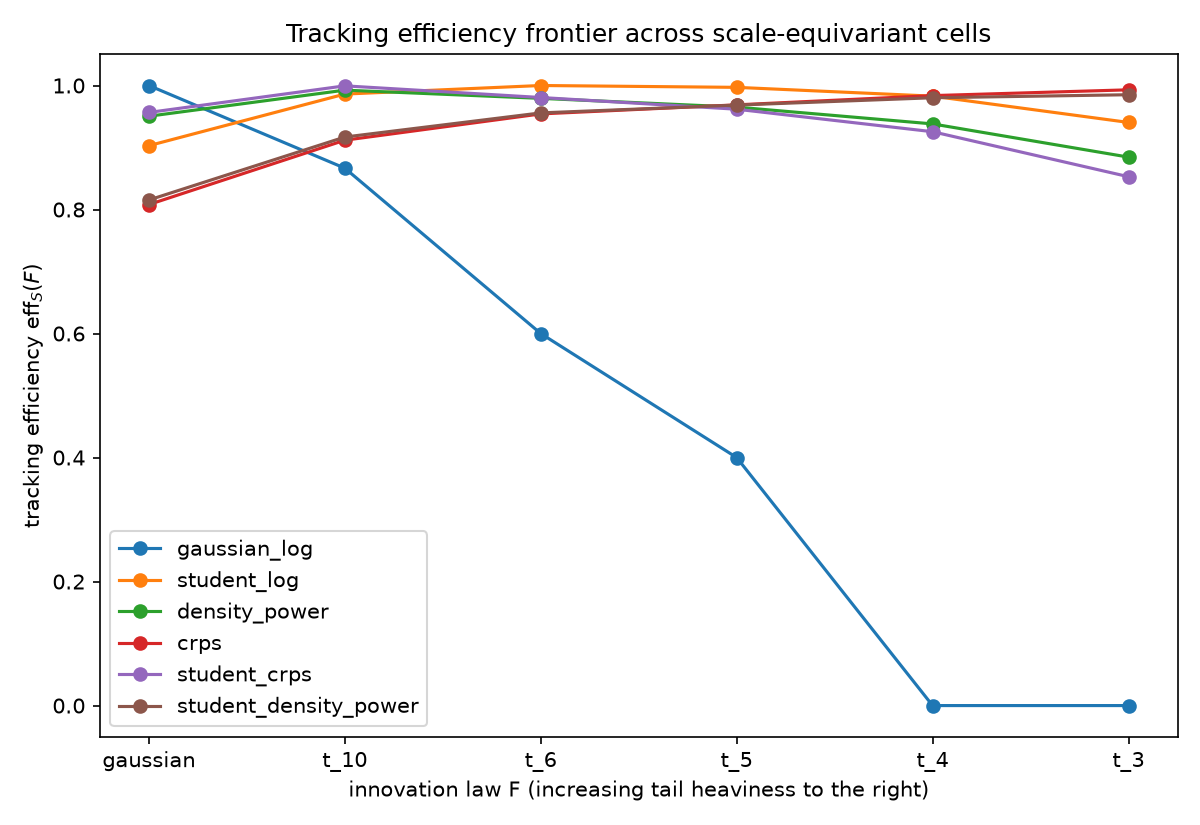
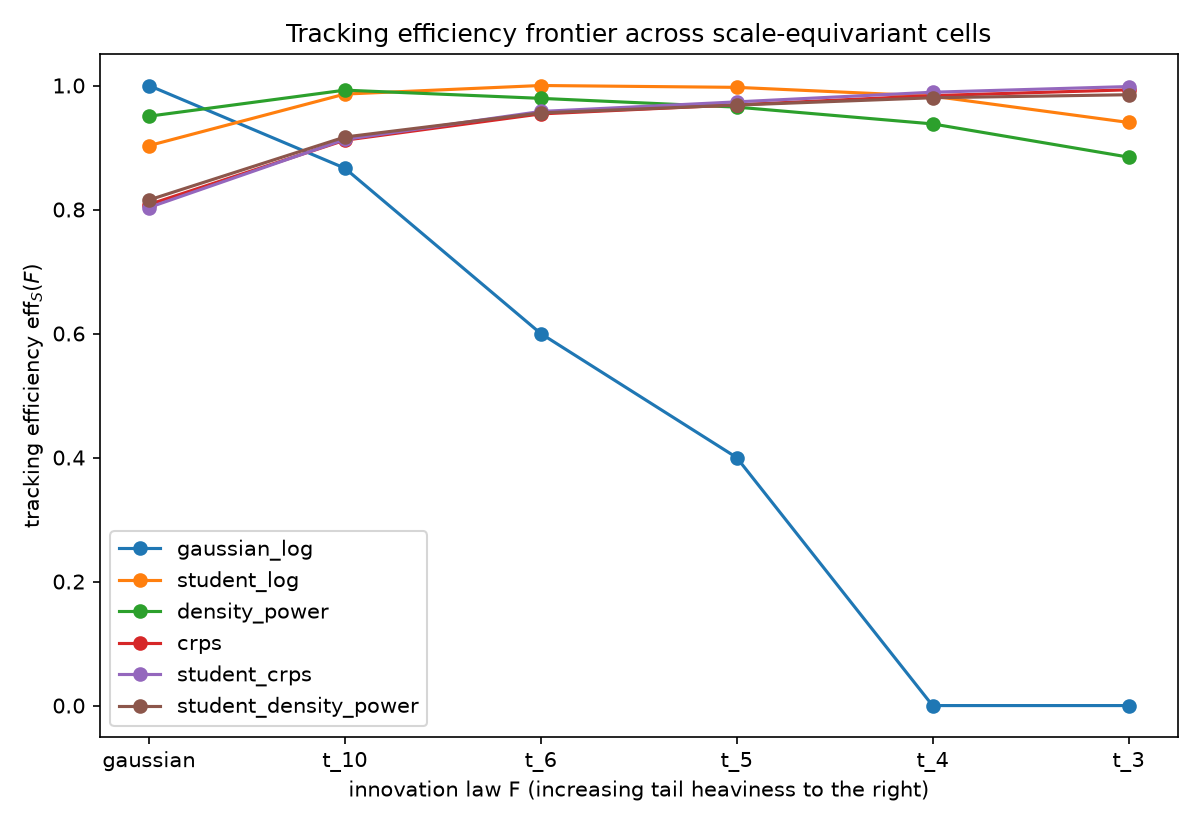
Fix Student-t CRPS score to use scale parameter consistently with variance
The Student-t CRPS closed form (Eq. G.1) takes the distribution's scale
parameter, not its variance, as input. src/scoring_rules.py and
src/empirical.py previously passed the working variance directly where the
scale was expected, which degraded the Student-t6 CRPS cell specifically
(exp4 target shift, exp6 factorial fit). exp4's Student-t6 CRPS target shift
under t_3 innovations now matches the paper's reported -0.457 to three
decimals (Table 3).

diff --git a/src/scoring_rules.py b/src/scoring_rules.py
@@ -223,8 +223,11 @@ def curvature_normalised_driver(rule: str, z: np.ndarray) -> np.ndarray:
 _CRPS_T_CONST_CACHE: dict = {}
 
 
-def crps_student_t(v: np.ndarray, y: np.ndarray, nu: float = NU_STUDENT) -> np.ndarray:
-    """CRPS_{t_nu}(v, y) per Eq. (G.1); v is the predictive variance.
+def crps_student_t(scale2: np.ndarray, y: np.ndarray, nu: float = NU_STUDENT) -> np.ndarray:
+    """CRPS_{t_nu}(scale2, y) per Eq. (G.1), the Gneiting-Raible / Jordan et al.
+    (2019) closed form, as implemented in the ``scoringRules`` R package's
+    ``crps_t``. ``scale2`` is the squared *scale* parameter of the Student-t_nu
+    working density (not its variance: Var = scale2 * nu/(nu-2) for nu > 2).
 
     Uses ``scipy.special.stdtr`` (a direct ufunc) and a cached normalising
     constant instead of the ``scipy.stats.t`` object interface, because this
@@ -232,13 +235,13 @@ def crps_student_t(v: np.ndarray, y: np.ndarray, nu: float = NU_STUDENT) -> np.n
     from scipy.special import beta as beta_fn, stdtr
 
     if nu not in _CRPS_T_CONST_CACHE:
-        d_nu = nu - 2
-        c_nu = (2 * np.sqrt(nu - 2) / (nu - 1)) * beta_fn(0.5, nu - 0.5) / beta_fn(0.5, nu / 2) ** 2
+        c_nu = (2 * np.sqrt(nu) / (nu - 1)) * beta_fn(0.5, nu - 0.5) / beta_fn(0.5, nu / 2) ** 2
         pdf_const = float(gamma((nu + 1) / 2) / (np.sqrt(nu * np.pi) * gamma(nu / 2)))
-        _CRPS_T_CONST_CACHE[nu] = (d_nu, c_nu, pdf_const)
-    d_nu, c_nu, pdf_const = _CRPS_T_CONST_CACHE[nu]
+        _CRPS_T_CONST_CACHE[nu] = (c_nu, pdf_const)
+    c_nu, pdf_const = _CRPS_T_CONST_CACHE[nu]
 
-    z = y / np.sqrt(v)
+    scale = np.sqrt(scale2)
+    z = y / scale
     f_nu = pdf_const * (1.0 + z * z / nu) ** (-(nu + 1) / 2)
     F_nu = stdtr(nu, z)
-    return np.sqrt(v) * (z * (2 * F_nu - 1) + 2 * f_nu * (d_nu + z ** 2) / (nu - 1) - c_nu)
+    return scale * (z * (2 * F_nu - 1) + 2 * f_nu * (nu + z ** 2) / (nu - 1) - c_nu)

diff --git a/src/tracking_efficiency.py b/src/tracking_efficiency.py
@@ -69,9 +69,10 @@ def _psi_scale_equivariant(rule: str, eps: np.ndarray, delta: float, beta: float
     if rule == "student_crps":
         from src.scoring_rules import crps_student_t
         v = np.exp(delta)
+        scale2 = v * (nu_work - 2) / nu_work
         h = 1e-5
-        s_plus = crps_student_t(v * np.exp(h), eps, nu=nu_work)
-        s_minus = crps_student_t(v * np.exp(-h), eps, nu=nu_work)
+        s_plus = crps_student_t(scale2 * np.exp(h), eps, nu=nu_work)
+        s_minus = crps_student_t(scale2 * np.exp(-h), eps, nu=nu_work)
         return -(s_plus - s_minus) / (2 * h)
     if rule == "student_density_power":
         v = np.exp(delta)

diff --git a/src/empirical.py b/src/empirical.py
@@ -49,7 +49,7 @@ def _score_student(v: np.ndarray, y: np.ndarray, criterion: str, beta: float, el
     if criterion == "log":
         return 0.5 * np.log(v) + 0.5 * (nu + 1) * np.log(1 + z ** 2 / (nu - 2))
     if criterion == "crps":
-        return crps_student_t(v, y, nu=nu)
+        return crps_student_t(scale2, y, nu=nu)
     if criterion == "density_power":
         f = _t_pdf_fast(z, nu) / np.sqrt(scale2)
         c_nu_beta = _student_dp_norm_const(nu, beta)

diff --git a/results/RESULTS.md b/results/RESULTS.md
@@ -100,6 +100,11 @@ multiplier as the paper's stated convention
 (`results/exp4_summary.json: gaussian_log_closed_form_check`). The correctly
 specified Student-t6 log score attains efficiency `1.000` exactly under t_6.
 
+The target shift of the Student-t6 CRPS cell under t_3 innovations,
+`delta_student_crps(t_3) = -0.457` (`results/exp4_efficiency_table.csv`),
+matches the paper's reported value of -0.457 to three decimals, confirming
+the closed-form CRPS score used for the first-order condition (Eq. G.1).
+
 **Verdict:** reproduced. All reported numbers match the paper's Table 3 to at
 least three significant digits.
 
